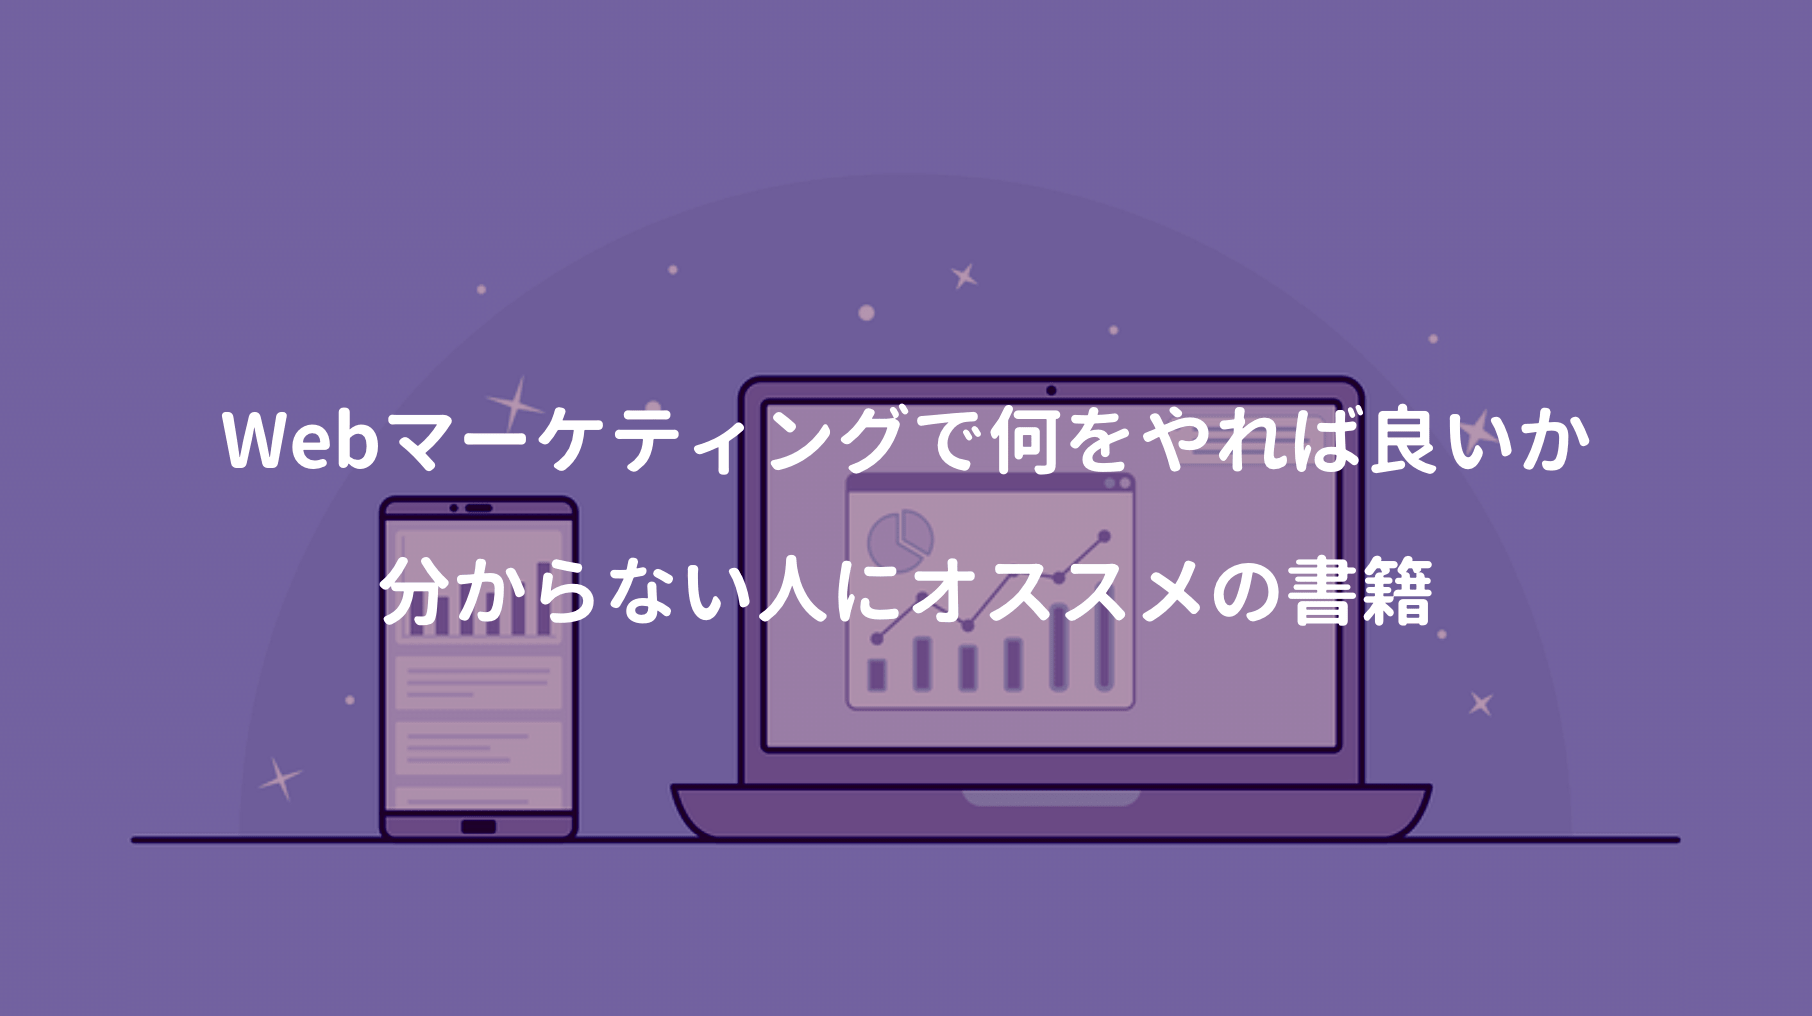
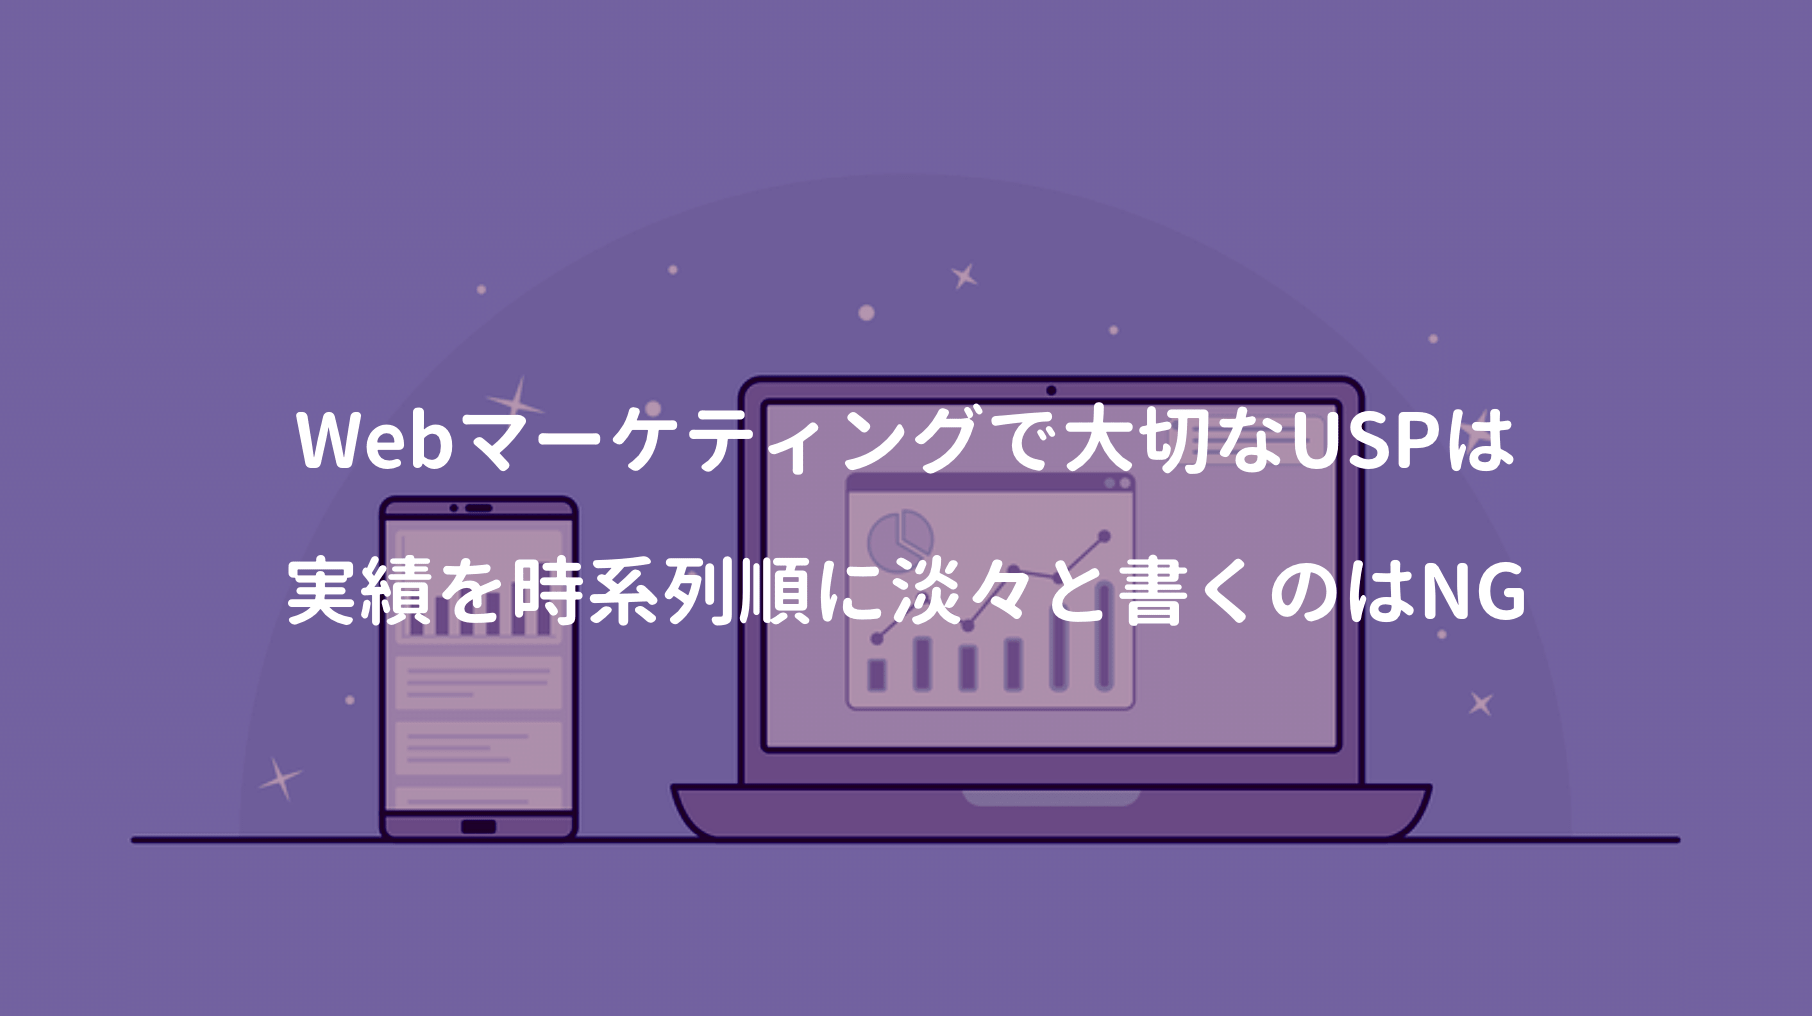
update posts

Changed region(s): [[0.1236, 0.3967, 0.8962, 0.4882], [0.1545, 0.5492, 0.8653, 0.6407]]

diff --git a/src/pages/profile/index.js b/src/pages/profile/index.js
@@ -1,0 +1,34 @@
+import React from "react"
+import { graphql } from "gatsby"
+
+import Layout from "../../components/layout"
+
+const Profile = props  => {
+  return (
+    <Layout location={props.location} title={props.data.site.siteMetadata.title} >
+      <div>
+        <div>
+          <p>自己紹介</p>
+        </div>
+        <div>
+          <p>自己PR</p>
+        </div>
+        <div>
+          <p>開発実績</p>
+        </div>
+      </div>
+    </Layout>
+  )
+}
+
+export default Profile
+
+export const pageQuery = graphql`
+  query {
+    site {
+      siteMetadata {
+        title
+      }
+    }
+  }
+`

diff --git a/src/components/layout/index.js b/src/components/layout/index.js
@@ -22,6 +22,10 @@ const Layout = ({ location, title, tags, children }) => {
     width = 47.3
   }
 
+  if (location.pathname.match(/profile/)) {
+    width = 40
+  }
+
   return (
     <div style={{ backgroundColor: `whitesmoke`, fontFamily: `Kosugi Maru`, }}>
       <link href="https://fonts.googleapis.com/css?family=Kosugi+Maru" />

diff --git a/content/blog/post-53/index.md b/content/blog/post-53/index.md
@@ -1,35 +1,35 @@
 ---
-title: Webマーケティングで何をやれば良いか分からない人にオススメの書籍
+title: Webマーケティングで大切なUSPは実績を時系列順に淡々と書くのはNG
 date: "2020-08-16T00:00:00.284Z"
 description: "一般的な中小企業には、MAツールを使いこなせる人材が少なく、マーケティングを自動化するシナリオの設計ノウハウが無い。そのためツールを導入しても成果を挙げられず、辞めてしまう企業が多い。"
 pagetype: "category"
 perma: "web-marketing"
 categoryname: "マーケティング"
 categoryslug: "marketing"
-tags: ["BtoBマーケティング"]
+tags: ["BtoBマーケティング", "USP"]
 thumbnail: post-53.png
 ---
 
 ![](./post-53.png)
 
-一般的な中小企業には、MAツールを使いこなせる人が少なく、マーケティングを自動化するシナリオ設計のノウハウが無い。そのためツールを導入しても成果を挙げられず、辞めてしまう企業は多い。
+一般的な中小企業には、MAツールを使いこなせる人材が少ない。そのためマーケティングを自動化させるシナリオを設計できず、せっかくツールを導入しても、成果を挙げられない企業が多い。
 
-成果を挙げられない理由は他にもあるが、そもそもWebマーケティングの中心である **サイト作り・コンテンツ作り** に苦戦する企業が多いとの現状を、マーケティング業界のクライアントから聞いた。
+他にも成果を挙げられない理由はあるが、そもそもWebマーケティングの基本である **サイト・コンテンツ作り** に苦戦する企業が多いことを、マーケティング業界のクライアントから聞いた。
 
-<span style="color: darkgray; font-weight: bold;">（MAツールでページを条件にアクションさせる場合、ページ単位のスコアリングが必要になる。例えばトップページより、商品の詳細や価格表は閲覧者の購買意欲が高いので差をつける。そのためMAツールを導入しても、前述のようなサイトデザインで設計されていないと、効果的な計測が困難となる）</span>
+<span style="color: darkgray; font-weight: bold;">（まずページを条件に何かアクションさせる場合、ページ単位のスコアリングが必要となる。例えばトップページより、商品の詳細や価格表は、閲覧者の購買意欲が高いので差をつける。なのでMAツールを導入しても、前述のようなサイトデザインで設計されていないと、効果的な計測ができない）</span>
 
-その際、Webマーケティングに悩む企業に参考になる本を聞いたら、次の本を紹介された。
+またサイト・コンテンツ作りに苦戦する人には、次の本が参考になると教えてくれた。
 
 <div class="cstmreba"><div class="booklink-box"><div class="booklink-image"><a href="https://hb.afl.rakuten.co.jp/hgc/146fe51c.1fd043a3.146fe51d.605dc196/yomereba_main_202008151750078065?pc=http%3A%2F%2Fbooks.rakuten.co.jp%2Frb%2F13070114%2F%3Fscid%3Daf_ich_link_urltxt%26m%3Dhttp%3A%2F%2Fm.rakuten.co.jp%2Fev%2Fbook%2F" target="_blank" ><img src="https://thumbnail.image.rakuten.co.jp/@0_mall/book/cabinet/1180/9784774171180.jpg?_ex=150x150" style="border: none;" /></a></div><div class="booklink-info"><div class="booklink-name"><a href="https://hb.afl.rakuten.co.jp/hgc/146fe51c.1fd043a3.146fe51d.605dc196/yomereba_main_202008151750078065?pc=http%3A%2F%2Fbooks.rakuten.co.jp%2Frb%2F13070114%2F%3Fscid%3Daf_ich_link_urltxt%26m%3Dhttp%3A%2F%2Fm.rakuten.co.jp%2Fev%2Fbook%2F" target="_blank" >あたらしいWebマーケティングの教科書</a><div class="booklink-powered-date">posted with <a href="https://yomereba.com" rel="nofollow" target="_blank">ヨメレバ</a></div></div><div class="booklink-detail">西俊明 技術評論社 2015年02月    </div><div class="booklink-link2"><div class="shoplinkrakuten"><a href="https://hb.afl.rakuten.co.jp/hgc/146fe51c.1fd043a3.146fe51d.605dc196/yomereba_main_202008151750078065?pc=http%3A%2F%2Fbooks.rakuten.co.jp%2Frb%2F13070114%2F%3Fscid%3Daf_ich_link_urltxt%26m%3Dhttp%3A%2F%2Fm.rakuten.co.jp%2Fev%2Fbook%2F" target="_blank" >楽天ブックス</a></div><div class="shoplinkamazon"><a href="https://www.amazon.co.jp/exec/obidos/asin/4774171182/kanon123-22/" target="_blank" >Amazon</a></div><div class="shoplinkkindle"><a href="https://www.amazon.co.jp/gp/search?keywords=%E3%81%82%E3%81%9F%E3%82%89%E3%81%97%E3%81%84Web%E3%83%9E%E3%83%BC%E3%82%B1%E3%83%86%E3%82%A3%E3%83%B3%E3%82%B0%E3%81%AE%E6%95%99%E7%A7%91%E6%9B%B8&__mk_ja_JP=%83J%83%5E%83J%83i&url=node%3D2275256051&tag=kanon123-22" target="_blank" >Kindle</a></div>                              	  	  	  	  	</div></div><div class="booklink-footer"></div></div></div>
 <br/>
 
-私も一読したが、Webマーケティングでやるべきことが分からない企業は勿論、個人レベルでも使える内容が書かれていると感じた<span style="color: darkgray; font-weight: bold;">（書籍タイトルに「最小の手間で最大の効果を生む！」とあるように「何からやればいいのか、それぞれどの程度やればよいか」が明確で、無駄なことが一切省かれている）</span>
+私も一読し、Webマーケティングに悩む企業は勿論、個人レベルでも使える内容かと思われる<span style="color: darkgray; font-weight: bold;">（書籍タイトルに「最小の手間で最大の効果を生む！」とあるように「何からやればいいのか、それぞれどの程度やればよいか」が明確で、無駄なことが一切省かれている）</span>
 
-しかし本書の内容を実践している企業は、一体どのくらいあるんだろうか!?
+しかし本書の内容を実践できる企業は、一体どのくらいあるんだろうか!?
 
-この話を聞いた時、私が所属する企業のHPもチェックしてもらった。それなりの作りで、ある程度ブランディングも出来ているが、まだまだ改善の余地があることを指摘された。一応IT業界なんだけど、ITでこんな指摘をもらうのであれば、他業界の現状は想像に難くない気もする。
+話のついでに、自分の会社ホームページをチェックしてもらった。
 
-ちなみに指摘事項の一つは、第2章で説明されている **USP（独自の強み）** の話。本書ではUSPを **<span style="color: crimson;">技術・実績・想い</span>** の3つに分解し、物語として共感を生むことが大切だと言っている。
+幾つか指摘された改善点の一つが、第2章で説明されている **USP（独自の強み）**で、本書ではUSPを **<span style="color: crimson;">技術・実績・想い</span>** の3つに分解し、物語として **共感を生むこと** が大切だと言われていた。
 
 <div class="blackboard-box">
 <p>・経歴と技術は因果関係で考える（○○の経験を通して、△△の技術を身に付けた）</p>
@@ -40,10 +40,23 @@ thumbnail: post-53.png
 </div>
 <br/>
 
-確かに自社HPを確認しても見当たらなかったが、技術・実績がある企業・人は **<span style="color: crimson;">定量的なデータ</span>** で客観性と信頼性を高めれば良し。逆に技術・実績の無い方は、**<span style="color: crimson;">想い</span>** から書き始め、強みが思いつかなければ、専門分野・業界の当たり前を疑うことから着手することが推奨される。
+本書では、ダメなUSPとして **<span style="color: crimson;">これまでやってきたことを時系列に並べる、または自分が出来ることを淡々と書くこと</span>** を挙げており、まさに自身の経歴書だと猛省<span style="color: darkgray; font-weight: bold;">（ダメな理由は、聞く側はリアリティが感じられず、何がどの程度出来るか分からないし、キャリアの背景や人間性も感じられないから）</span>
 
-ちなみにこの話、個人レベルでも同じことが言え、本書ではダメなUSPのパターンに**<span style="color: crimson;">これまでやってきたことを時系列に並べる、または自分が出来ることを淡々と書くこと</span>** を挙げていた。
+強みや経験が乏しいなら**「想い」**から書き始めることになるが、競合に真似されてはUSPにならない。
 
-まさに自身の経歴書が、ダメなUSPパターンに一致しており、猛省させられた。
+ちなみにWebライティングの本では、真似されないUSPの一例<span style="color: darkgray; font-weight: bold;">（若い二人が旅館を切り盛りする「弱み」を、他社に類を見ない親孝行プランを打ち出すことで「強み」に変える）</span>が紹介されていた。
 
-ダメな理由だが、聞く側としてリアリティが感じられず、何がどの程度出来るか分からないし、キャリアの背景や人間性も感じられないからとのこと...まあ当然の理由だと思う。
+<div class="cstmreba"><div class="booklink-box"><div class="booklink-image"><a href="https://hb.afl.rakuten.co.jp/hgc/146fe51c.1fd043a3.146fe51d.605dc196/yomereba_main_202008221938514787?pc=http%3A%2F%2Fbooks.rakuten.co.jp%2Frb%2F14513758%2F%3Fscid%3Daf_ich_link_urltxt%26m%3Dhttp%3A%2F%2Fm.rakuten.co.jp%2Fev%2Fbook%2F" target="_blank" ><img src="https://thumbnail.image.rakuten.co.jp/@0_mall/book/cabinet/6232/9784844366232.jpg?_ex=150x150" style="border: none;" /></a></div><div class="booklink-info"><div class="booklink-name"><a href="https://hb.afl.rakuten.co.jp/hgc/146fe51c.1fd043a3.146fe51d.605dc196/yomereba_main_202008221938514787?pc=http%3A%2F%2Fbooks.rakuten.co.jp%2Frb%2F14513758%2F%3Fscid%3Daf_ich_link_urltxt%26m%3Dhttp%3A%2F%2Fm.rakuten.co.jp%2Fev%2Fbook%2F" target="_blank" >沈黙のWebライティング</a><div class="booklink-powered-date">posted with <a href="https://yomereba.com" rel="nofollow" target="_blank">ヨメレバ</a></div></div><div class="booklink-detail">松尾茂起/上野高史 エムディエヌコーポレーション 2016年11月    </div><div class="booklink-link2"><div class="shoplinkrakuten"><a href="https://hb.afl.rakuten.co.jp/hgc/146fe51c.1fd043a3.146fe51d.605dc196/yomereba_main_202008221938514787?pc=http%3A%2F%2Fbooks.rakuten.co.jp%2Frb%2F14513758%2F%3Fscid%3Daf_ich_link_urltxt%26m%3Dhttp%3A%2F%2Fm.rakuten.co.jp%2Fev%2Fbook%2F" target="_blank" >楽天ブックス</a></div><div class="shoplinkamazon"><a href="https://www.amazon.co.jp/exec/obidos/asin/4844366238/kanon123-22/" target="_blank" >Amazon</a></div><div class="shoplinkkindle"><a href="https://www.amazon.co.jp/gp/search?keywords=%E6%B2%88%E9%BB%99%E3%81%AEWeb%E3%83%A9%E3%82%A4%E3%83%86%E3%82%A3%E3%83%B3%E3%82%B0&__mk_ja_JP=%83J%83%5E%83J%83i&url=node%3D2275256051&tag=kanon123-22" target="_blank" >Kindle</a></div>                              	  	  	  	  	</div></div><div class="booklink-footer"></div></div></div>
+<br/>
+
+本書では、旅館運営のUSPになりうる要素を、ハード面<span style="color: darkgray; font-weight: bold;">（温泉の質/施設/部屋の広さ/場所/景観）</span>とソフト面<span style="color: darkgray; font-weight: bold;">（料理/接客/女将の個性/歴史/プラン）</span>で洗い出し、以下の2軸で考えている。
+
+<div class="blackboard-box">
+<p>・競合に真似されにくい</p>
+<p>・競合と同じステージで闘わずに済むこと</p>
+<div class="chalk1"></div>
+<div class="chalk2"></div>
+</div>
+<br/>
+
+一つの考えに固執せず、複数の考えを掛け合わせたり、ニッチな市場をターゲットに、ニッチ分野での専門性を売りにするとか。あらゆるモノがコモディティ化しているので、難しい気もするけど。。。
